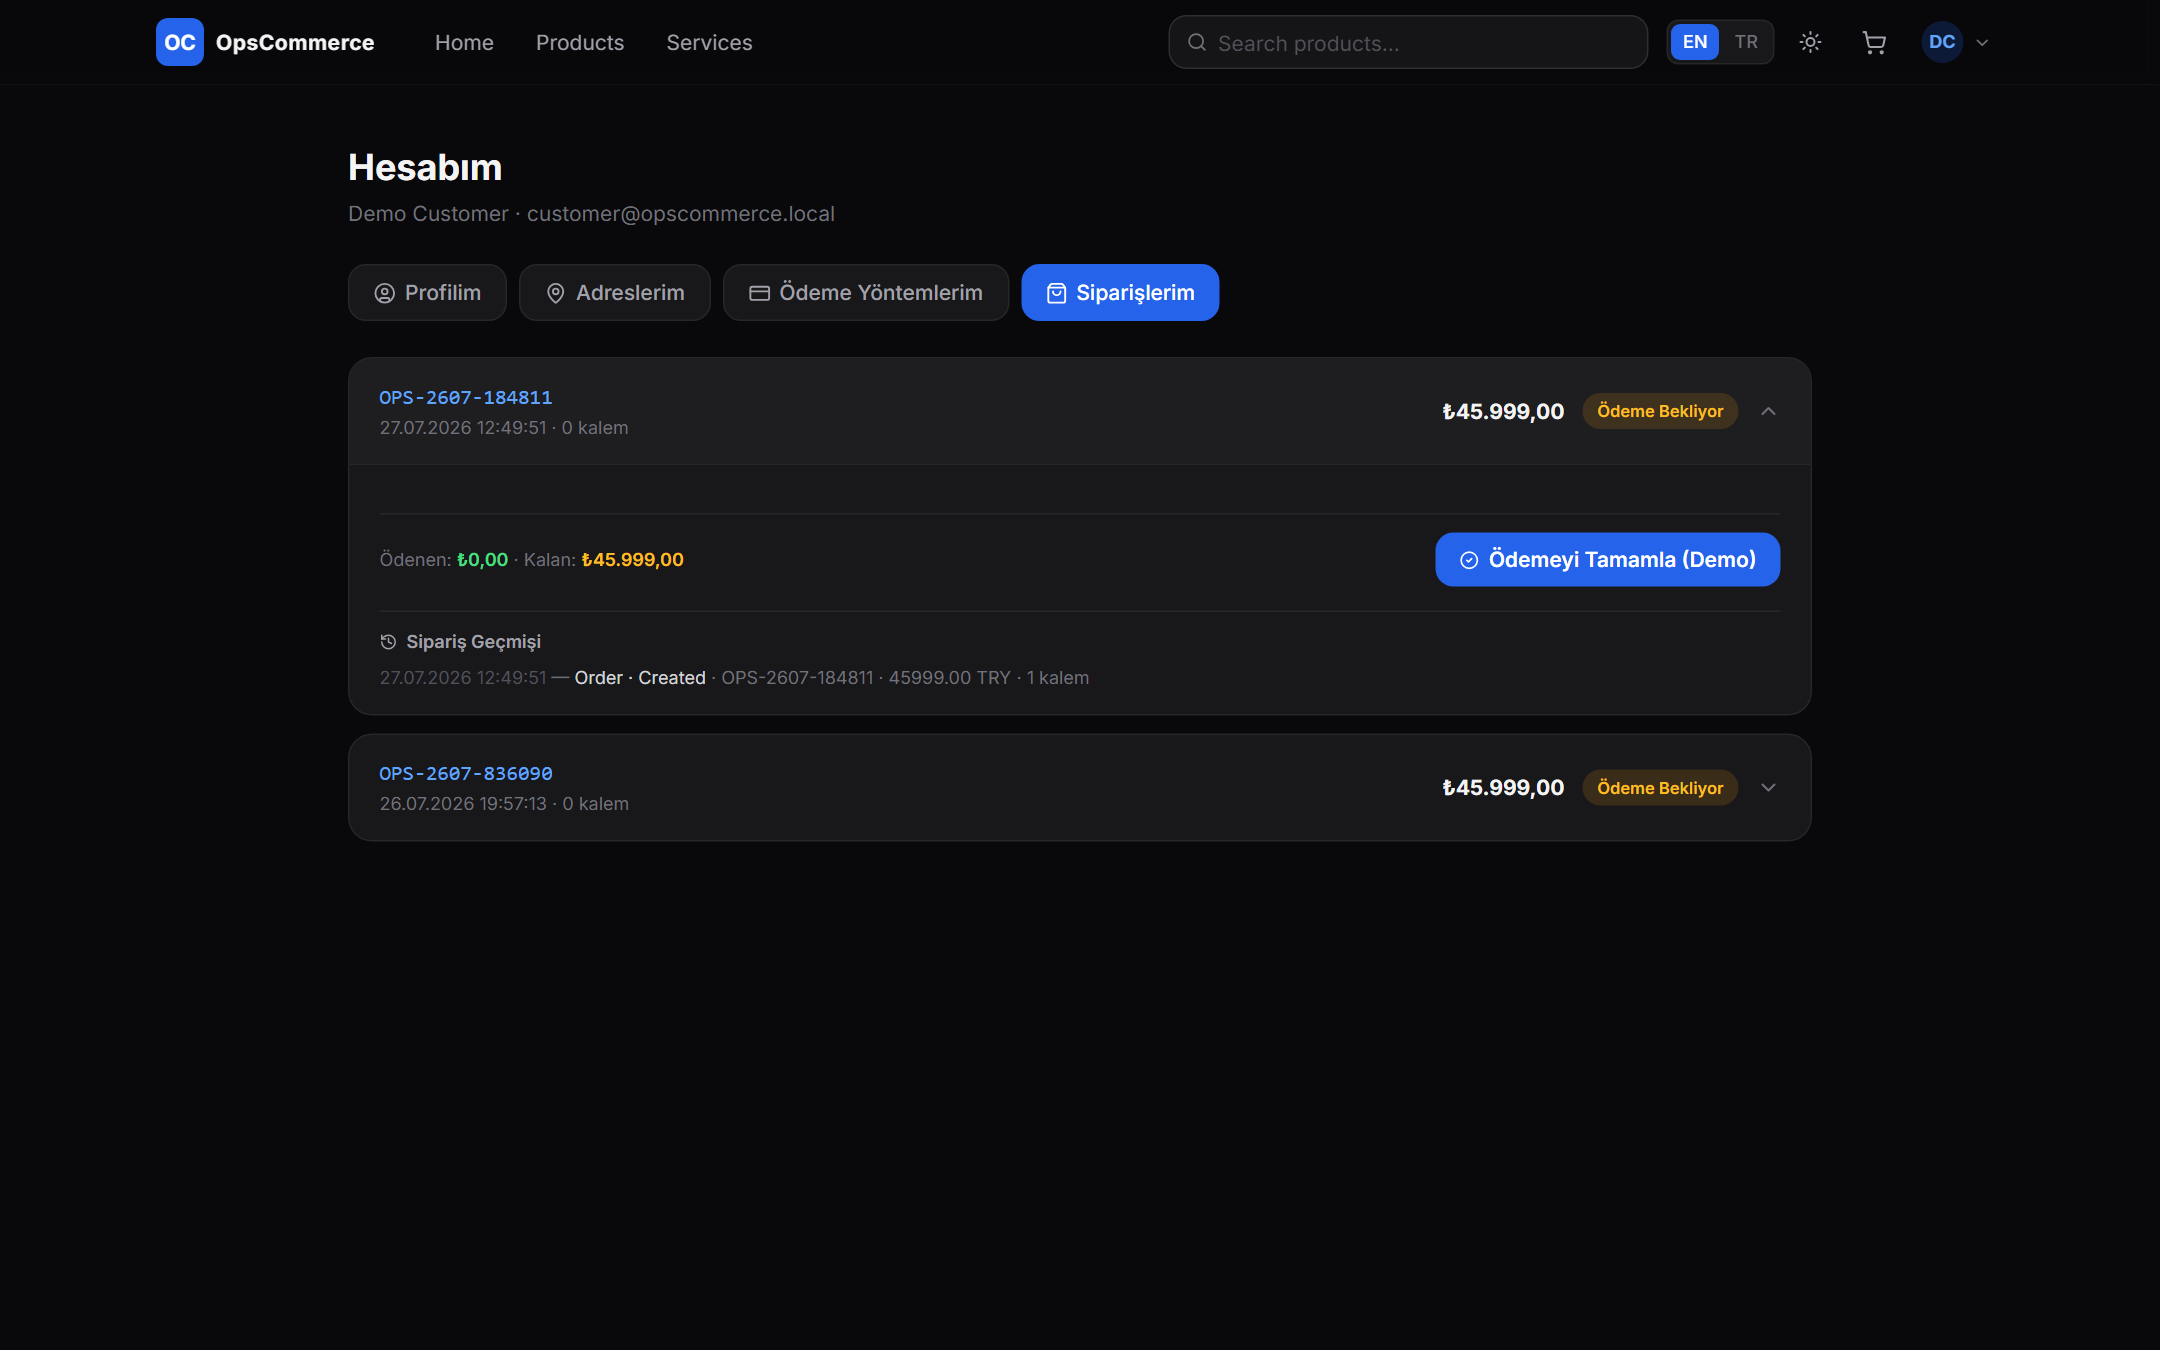
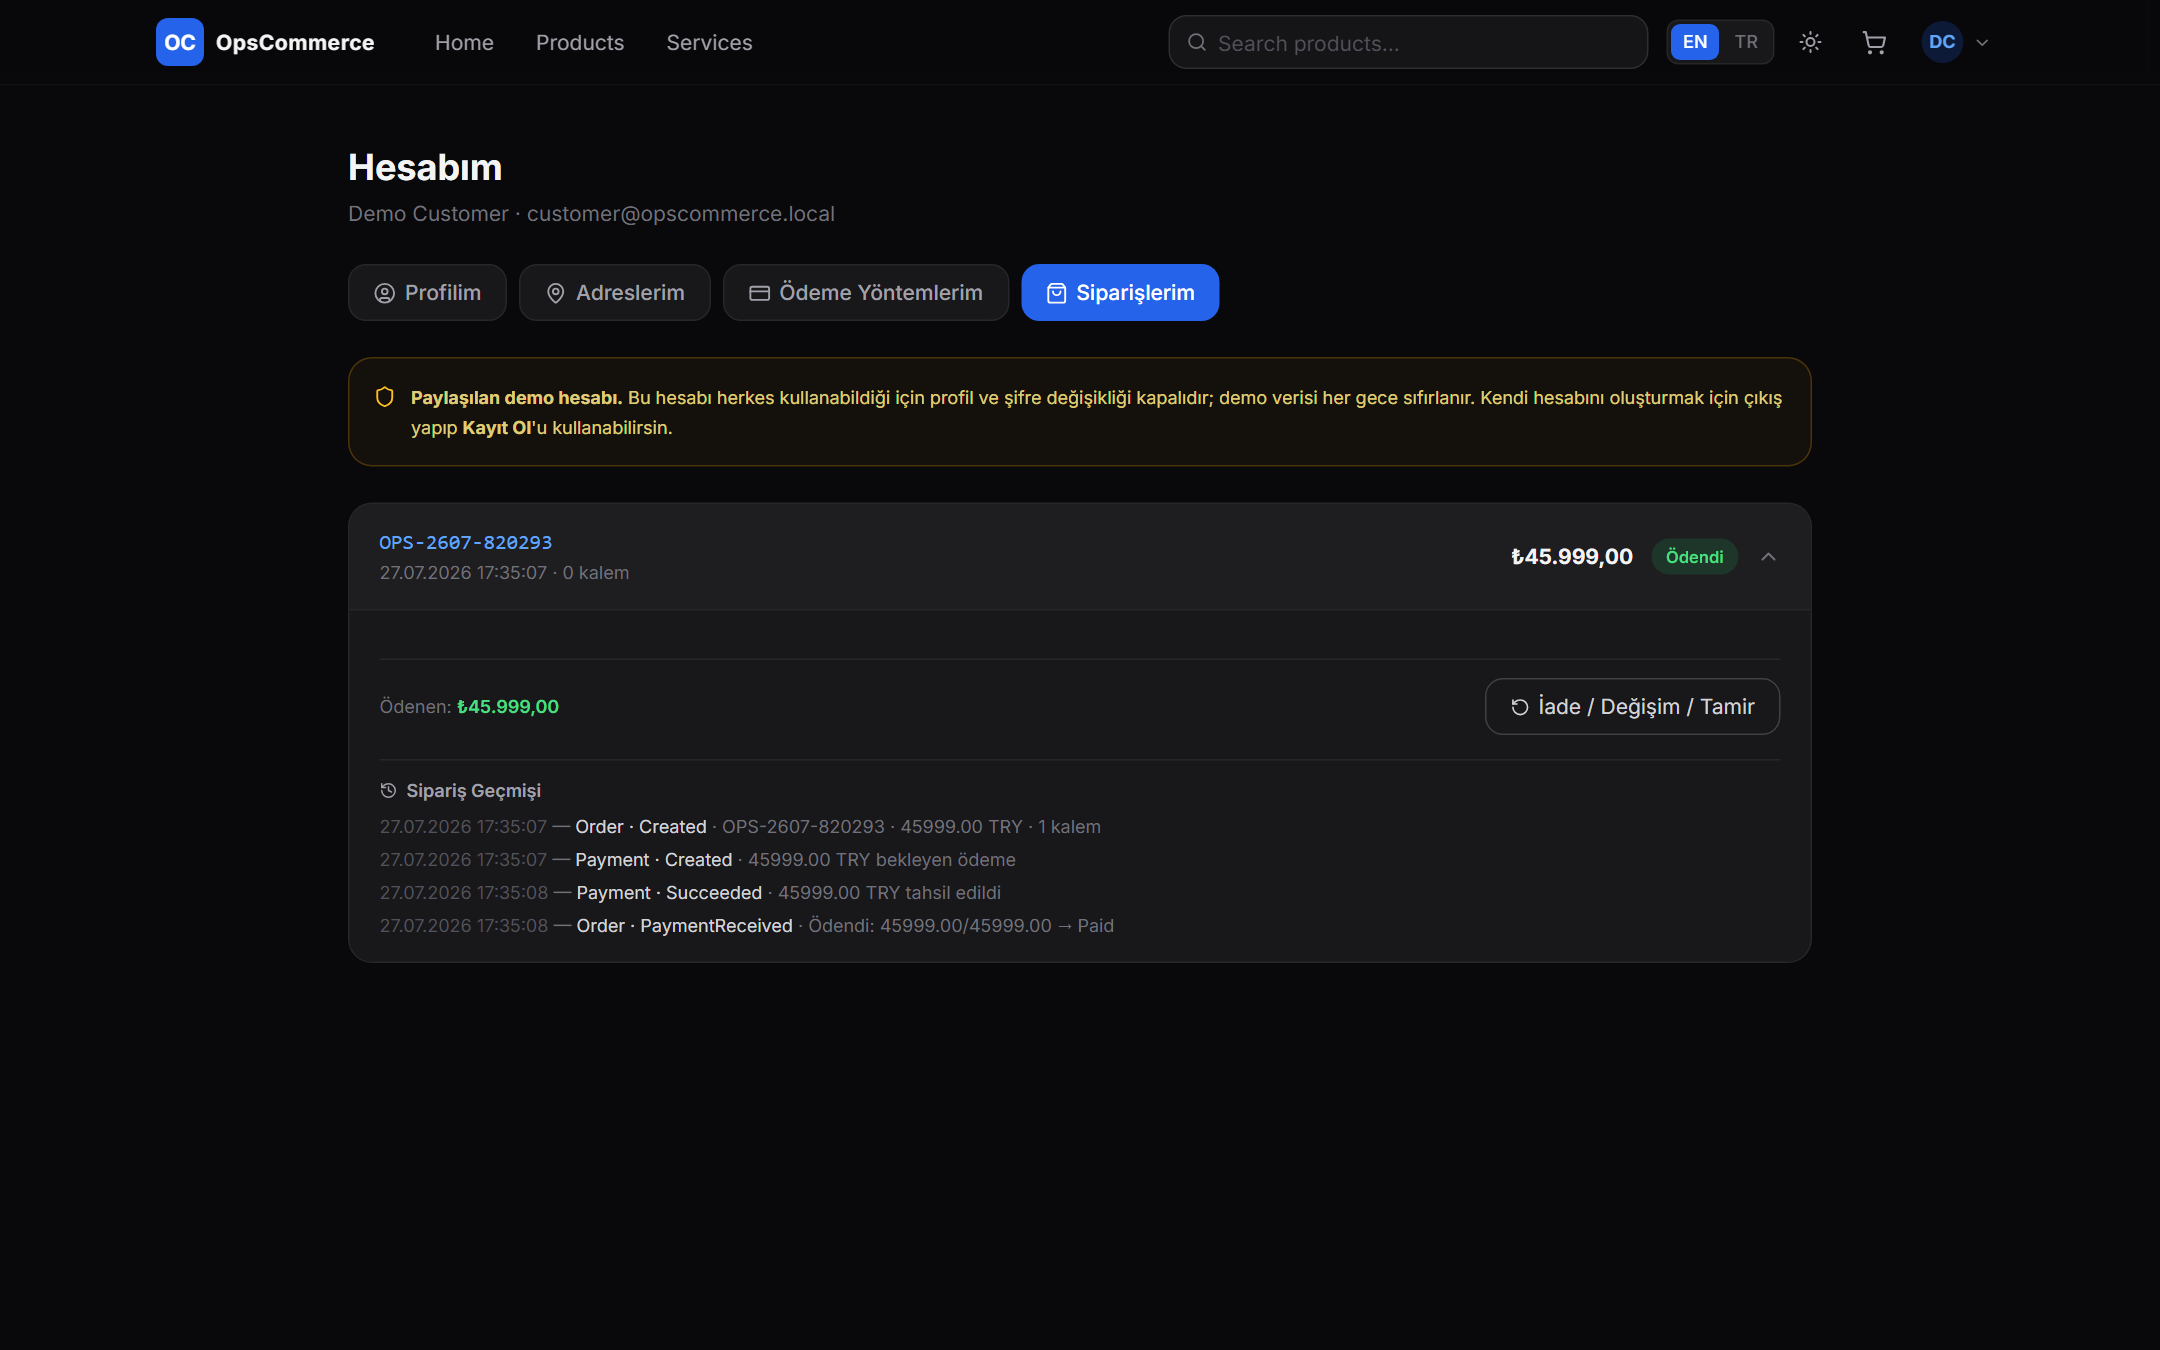
docs: demo hardening, security policy and full-platform contact
- README: one-click demo sign-in (no shared password published),
  demo protection section, live-demo badge, link to the full platform
- SECURITY.md: reporting channel, demo isolation, security practices
- assets: screenshots re-captured from the demo environment

diff --git a/README.md b/README.md
@@ -2,6 +2,7 @@
 
 **An operations-first commerce platform** — not just a storefront, but the full engine behind it: order lifecycle, deposit-based payments, warehouse inventory with overselling protection, courier delivery, returns (RMA), production orders and a complete operational audit trail.
 
+[![Live demo](https://img.shields.io/badge/live%20demo-opscommerce--demo-2563eb)](https://opscommerce-demo.rapidconfigs.com)
 ![CI](https://github.com/mFurkanHiz/opscommerce-showcase/actions/workflows/ci.yml/badge.svg)
 ![.NET 10](https://img.shields.io/badge/.NET-10-512BD4)
 ![Next.js 15](https://img.shields.io/badge/Next.js-15-black)
@@ -116,7 +117,7 @@ That is all — the domain has no infrastructure dependencies.
 
 ## Screenshots
 
-The platform ships with an EN/TR language switcher; the operational screens below are captured in Turkish — the platform's primary market language.
+All screenshots are taken from the live demo. The platform ships with an EN/TR language switcher: the customer-facing surface is fully bilingual, while the internal operations screens below are captured in Turkish — the primary language of the teams they are built for.
 
 | | |
 |---|---|
@@ -133,17 +134,34 @@ More: [storefront](assets/storefront.png) · [login with demo roles](assets/logi
 
 **https://opscommerce-demo.rapidconfigs.com** — an isolated demo environment with simulated payments and a **nightly data reset** (everything you create is wiped early each morning, UTC — so feel free to explore).
 
-| Role | E-mail | What to try |
-|---|---|---|
-| Company admin | `company@opscommerce.local` | catalog, deposit toggle on a product, dashboard |
-| Operations | `operations@opscommerce.local` | orders, status flow, RMA approval, courier assignment |
-| Warehouse | `warehouse@opscommerce.local` | inventory, stock intake, reservations, transfers |
-| Courier | `courier@opscommerce.local` | "My Deliveries", step-by-step delivery |
-| Customer | `customer@opscommerce.local` | storefront, account area, order history, return request |
+No credentials to copy: the sign-in page has a **"Sign in with a demo role"** panel — pick a role and it logs you in.
 
-Password for all demo roles: `OpsCommerce123!` *(intentionally public — this is a sandbox).* The storefront also supports guest checkout with no login at all.
+| Role | What to try |
+|---|---|
+| Company admin | catalog, deposit toggle on a product, dashboard |
+| Operations | orders, status flow, RMA approval, courier assignment |
+| Warehouse | inventory, stock intake, reservations, transfers |
+| Courier | "My Deliveries", step-by-step delivery |
+| Customer | storefront, account area, order history, return request |
 
-A suggested 3-minute tour: put the deposit-enabled product in the cart → check out with **"pay deposit"** → pay the balance from the success screen → log in as operations and open the order → read its timeline.
+The storefront also supports guest checkout with no login at all, and the **Sign Up** tab creates a private account if you would rather not share the demo ones.
+
+A suggested 3-minute tour: put the deposit-enabled product in the cart → check out with **"pay deposit"** → pay the balance from the success screen → sign in as operations and open the order → read its timeline.
+
+**How the demo is protected.** A public sandbox invites accidents, so the demo build runs with an extra guard layer that the private deployments do not need:
+
+- **PlatformAdmin is not available** — the tenant/licence administration surface stays closed, and the sign-in page marks the role as locked instead of hiding it.
+- **Shared accounts are read-only** — their profiles and passwords cannot be changed, so no visitor can lock another one out.
+- **Deletes are disabled** outside a small allow-list (your own addresses, payment methods, cart items), and administrative areas (companies, licences, currencies, site settings) reject writes.
+- **Per-IP write quota** on top of the normal auth and checkout rate limits.
+- **No file or image upload exists anywhere in the platform** — there is no storage abuse vector to protect in the first place.
+- **Nightly reset** wipes the database and re-seeds it, so a broken state lasts hours, not forever.
+
+## The full platform
+
+This repository is the public, reviewable slice. The complete platform — every screen, the full application and infrastructure layers, production catalogue and CRM management — runs at **https://opscommerce.test.rapidconfigs.com** and covers considerably more than the demo above.
+
+That codebase is private. If you are evaluating me and want to read the real source or walk through the system with me, write to **mertfurkan.hiz@gmail.com** and I will arrange access or a live walkthrough.
 
 ## Limitations & roadmap
 

diff --git a/SECURITY.md b/SECURITY.md
@@ -1,0 +1,40 @@
+# Security policy
+
+## Scope
+
+This repository publishes the **domain layer and its tests** of the OpsCommerce platform, plus written documentation. It contains no credentials, no connection strings and no deployment configuration.
+
+The **public demo** at https://opscommerce-demo.rapidconfigs.com is a throwaway sandbox: simulated payments, generated data, and a full database reset every night. It holds no real customer, order or payment data.
+
+## Reporting a vulnerability
+
+If you find a security issue — in the published code, in the demo deployment, or in the way the demo is isolated — please report it privately to **mertfurkan.hiz@gmail.com** instead of opening a public issue. Please include what you did, what you expected, and what happened. I aim to reply within a few days.
+
+Please do not run automated scanners, load tests or denial-of-service attempts against the demo host: it shares a small server with other services, and the write quotas exist precisely so that ordinary exploration stays possible for everyone.
+
+## How the demo is hardened
+
+The demo build enables a restriction layer that the private deployments do not need:
+
+| Guard | Behaviour |
+|---|---|
+| Locked role | `PlatformAdmin` cannot be signed into; the tenant and licence administration surface is closed |
+| Shared accounts | Demo role accounts are read-only — profile and password changes are rejected (`DEMO_ACCOUNT_READONLY`) |
+| Deletes | Blocked outside a small allow-list (own addresses, payment methods, cart items) |
+| Administrative writes | Companies, licences, currencies and site settings reject writes |
+| Write quota | Per-IP hourly cap on state-changing requests, on top of the normal auth and checkout rate limits |
+| Uploads | The platform has no file or image upload endpoint at all — there is no storage abuse vector |
+| Reset | The database is dropped, migrated and re-seeded every night |
+
+## Security practices in the codebase
+
+These are implemented in the full platform and documented here for review:
+
+- **Authentication** — ASP.NET Identity with JWT bearer tokens; signing keys are supplied from the environment and the application refuses to start outside development with a placeholder or short key.
+- **Authorisation** — role-based policies per endpoint, plus tenant scoping on every company-owned resource; a row belonging to another tenant is answered with `404`, not `403`, so existence is not leaked.
+- **Server-authoritative pricing** — prices, totals and payment amounts are recomputed on the server; client-supplied values are ignored.
+- **Concurrency safety** — stock reservation and payment settlement are single atomic conditional updates, so a race cannot oversell stock or double-settle a payment.
+- **Audit trail** — every state change is written to an activity log inside the same transaction as the change itself, so the log cannot drift from reality.
+- **Rate limiting** — fixed-window limits on the authentication endpoints and on the anonymous checkout and payment endpoints.
+
+Details and code excerpts: [`docs/security.md`](docs/security.md) and [`code-highlights/`](code-highlights/).
